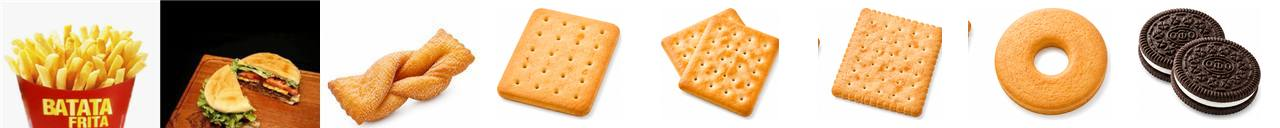
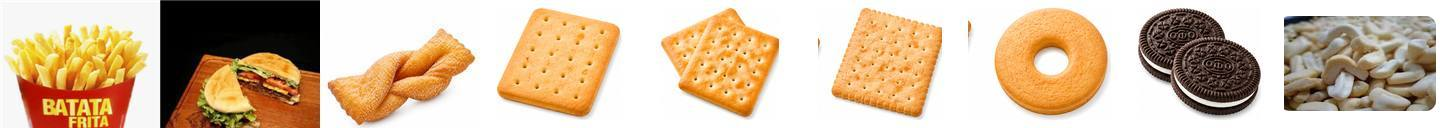
Add files via upload

diff --git a/foods.js b/foods.js
@@ -114,7 +114,7 @@ export const foods = [
   {
     id: "bauru-file",
     name: "Bauru Filé",
-    imageSpritePosition: "14.2857%",
+    imageSpritePosition: "12.5%",
     category: "Alimenta??o",
     caloriesPer100g: 1760,
     proteinPer100g: 100,
@@ -998,7 +998,7 @@ export const foods = [
   {
     id: "cueca-virada-grostoli",
     name: "Cueca Virada (Grostoli)",
-    imageSpritePosition: "28.5714%",
+    imageSpritePosition: "25%",
     category: "Alimentação",
     caloriesPer100g: 400,
     proteinPer100g: 7,
@@ -1378,7 +1378,7 @@ export const foods = [
   {
     id: "biscoito-maizena",
     name: "Biscoito de Maisena",
-    imageSpritePosition: "42.8571%",
+    imageSpritePosition: "37.5%",
     category: "Alimenta??o",
     caloriesPer100g: 400,
     proteinPer100g: 7,
@@ -1391,7 +1391,7 @@ export const foods = [
   {
     id: "biscoito-agua-e-sal",
     name: "Biscoito de Água e Sal",
-    imageSpritePosition: "57.1429%",
+    imageSpritePosition: "50%",
     category: "Alimenta??o",
     caloriesPer100g: 400,
     proteinPer100g: 8,
@@ -1404,7 +1404,7 @@ export const foods = [
   {
     id: "biscoito-cream-cracker",
     name: "Biscoito Cream Cracker",
-    imageSpritePosition: "71.4286%",
+    imageSpritePosition: "62.5%",
     category: "Alimenta??o",
     caloriesPer100g: 450,
     proteinPer100g: 9,
@@ -1417,7 +1417,7 @@ export const foods = [
   {
     id: "biscoito-rosquinha-doce",
     name: "Biscoito Rosquinha Doce",
-    imageSpritePosition: "85.7143%",
+    imageSpritePosition: "75%",
     category: "Alimenta??o",
     caloriesPer100g: 450,
     proteinPer100g: 7,
@@ -1430,11 +1430,24 @@ export const foods = [
   {
     id: "biscoito-recheado",
     name: "Biscoito Recheado",
-    imageSpritePosition: "100%",
+    imageSpritePosition: "87.5%",
     category: "Alimenta??o",
     caloriesPer100g: 450,
     proteinPer100g: 6,
     carbsPer100g: 67,
+    servings: [
+      { id: "gramas", name: "Gramas", grams: 1 },
+      { id: "porcao", name: "10g", grams: 10 }
+    ]
+  },
+  {
+    id: "biscoito-vovo-sentada",
+    name: "Biscoito Vovó Sentada",
+    imageSpritePosition: "100%",
+    category: "Alimenta??o",
+    caloriesPer100g: 500,
+    proteinPer100g: 7,
+    carbsPer100g: 70,
     servings: [
       { id: "gramas", name: "Gramas", grams: 1 },
       { id: "porcao", name: "10g", grams: 10 }

diff --git a/index.html b/index.html
@@ -1516,7 +1516,7 @@
       display: block;
       background-image: url("./food-images.jpg");
       background-repeat: no-repeat;
-      background-size: 800% 100%;
+      background-size: 900% 100%;
       background-position: var(--sprite-position, 0%) center;
     }
 

diff --git a/service-worker.js b/service-worker.js
@@ -1,4 +1,4 @@
-const CACHE_NAME = "dieta-controlada-pwa-10.08.2026_Rev.33";
+const CACHE_NAME = "dieta-controlada-pwa-10.08.2026_Rev.34";
 
 importScripts("./firebase-config.js");
 importScripts("https://www.gstatic.com/firebasejs/10.13.2/firebase-app-compat.js");
